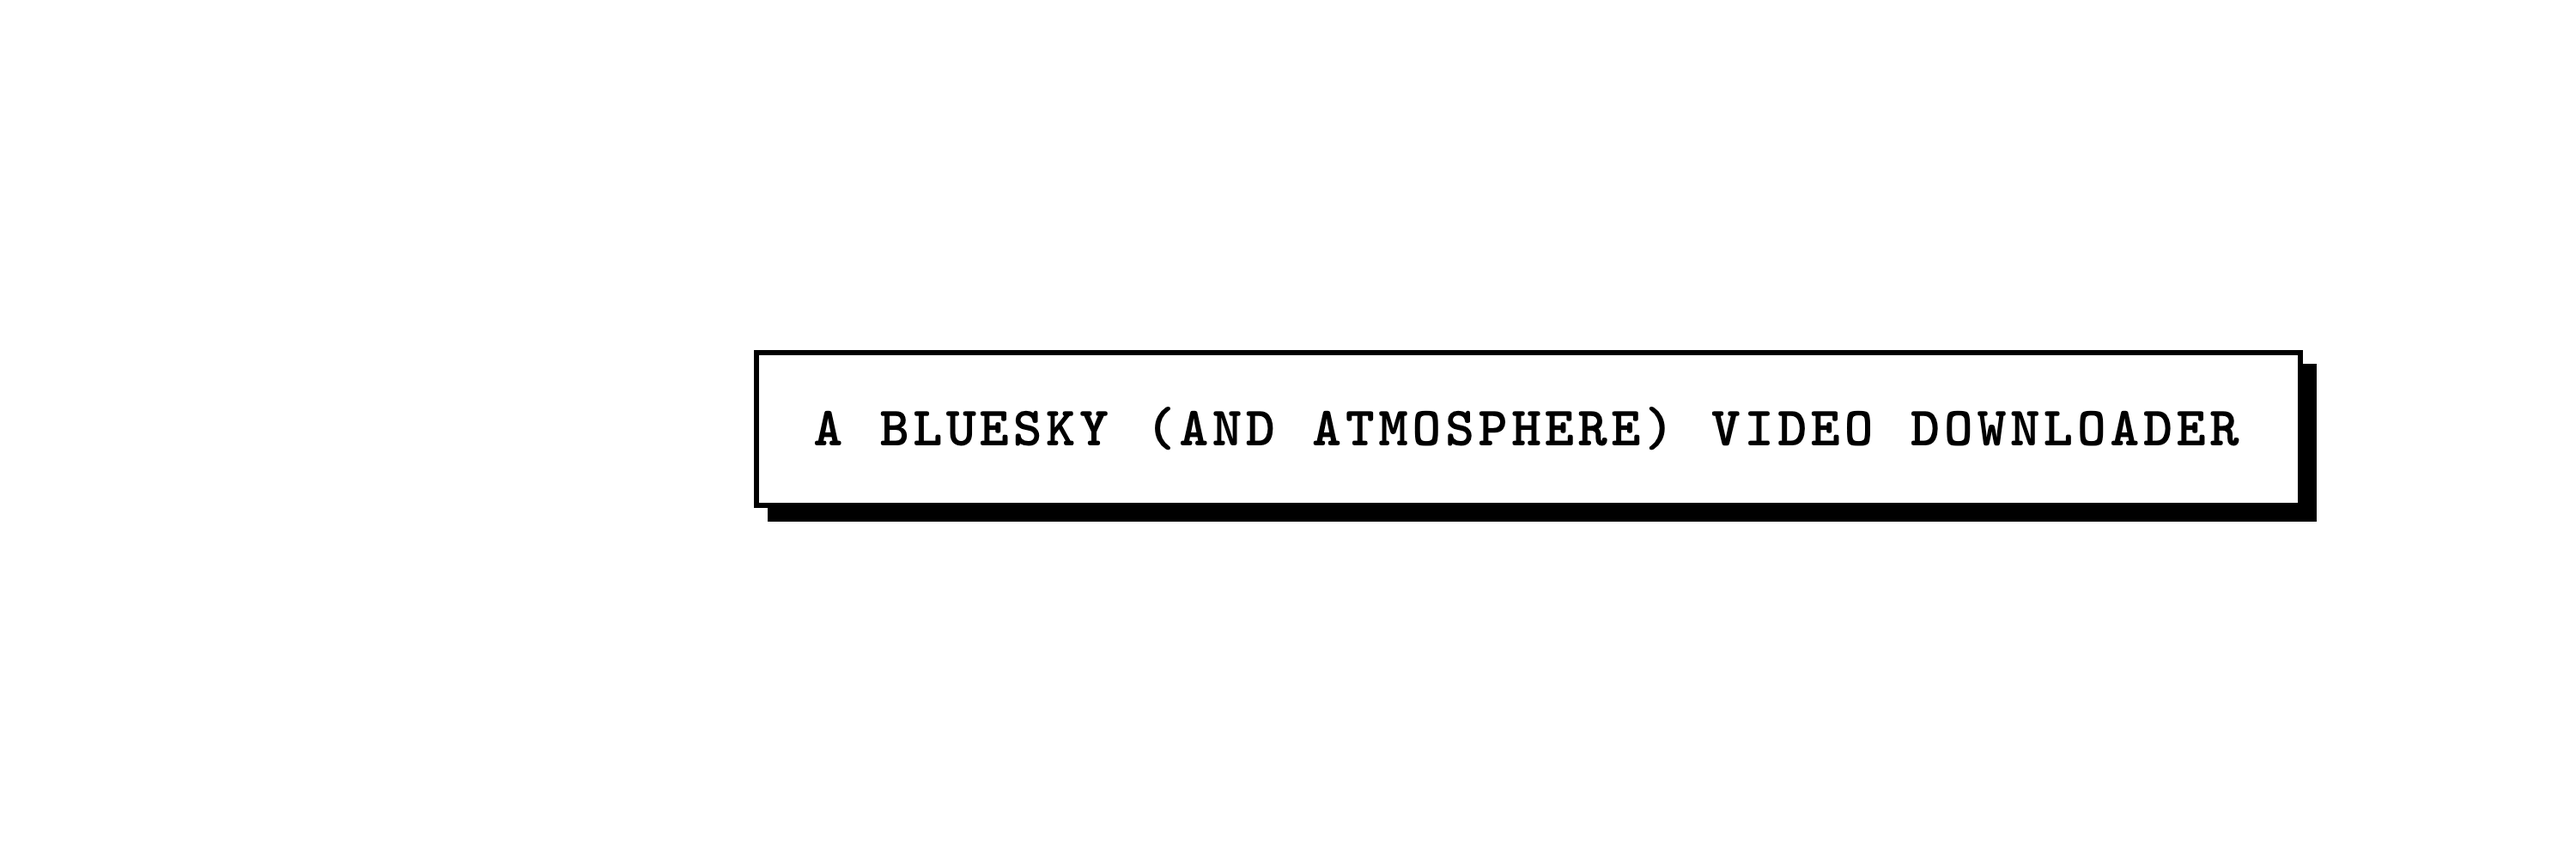
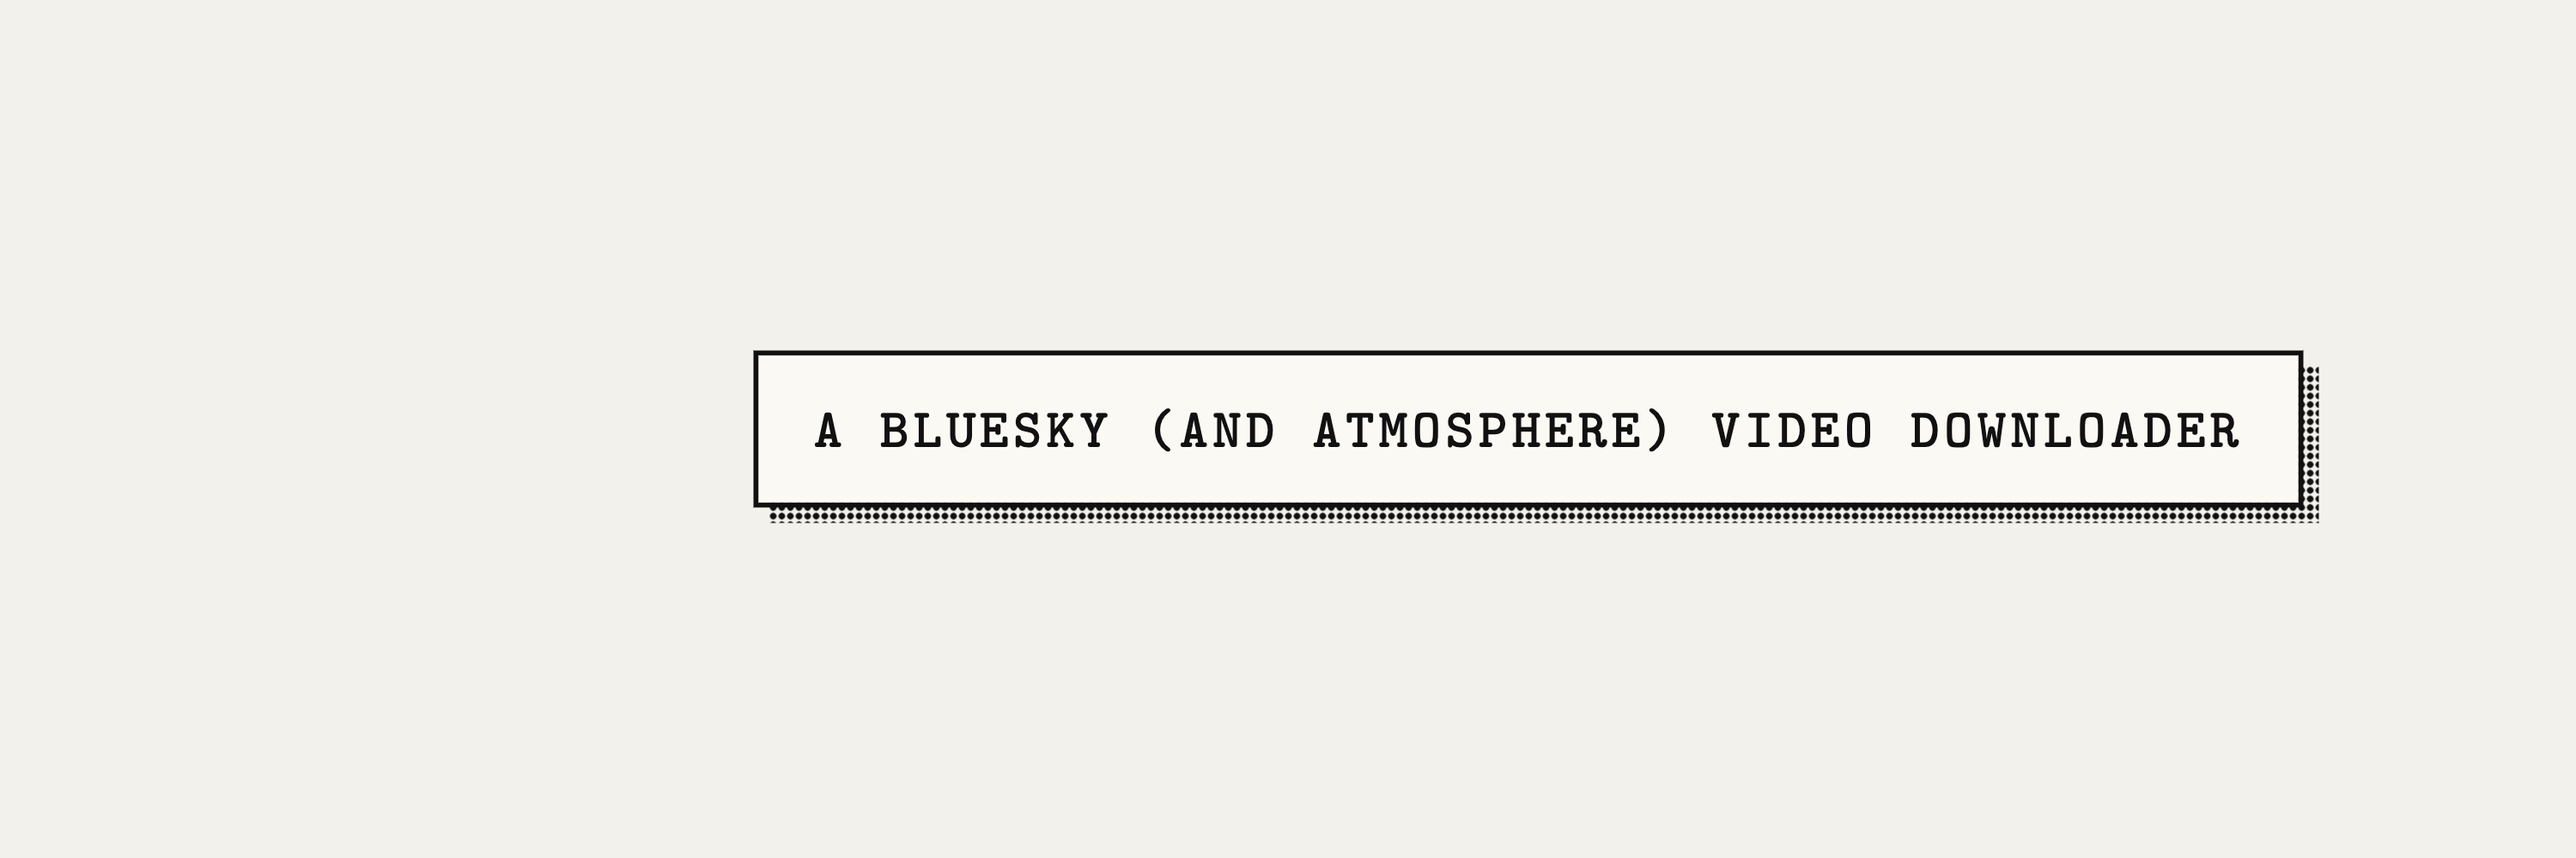
chore: redraw social images in the new style

diff --git a/scripts/og.html b/scripts/og.html
@@ -5,33 +5,36 @@
   <meta charset="UTF-8" />
   <link rel="stylesheet" href="../assets/tailwind-4.3.3.css" />
   <style>
+    /* Design system v2: newsprint paper, CMU Serif 700 wordmark with the ink
+       block tilted +1.5deg, and the tagline on a halftone (dot) shadow. The dot
+       geometry is scaled up for a 1200px card read at thumbnail size. */
     html, body { margin: 0; width: 1200px; height: 630px; overflow: hidden; background: var(--surface-page); }
     .frame {
       box-sizing: border-box; width: 1200px; height: 630px; padding: 56px;
-      display: flex; flex-direction: column; justify-content: center; align-items: center; gap: 40px;
+      display: flex; flex-direction: column; justify-content: center; align-items: center; gap: 44px;
     }
     .wordmark {
       margin: 0;
-      font: var(--weight-normal) 200px/1.1 var(--font-display);
+      font: var(--weight-display) 196px/1.1 var(--font-display);
       letter-spacing: var(--tracking-display);
       color: var(--text-1);
-    }
-    .wordmark-suffix {
-      display: inline-block; line-height: 0.92; padding: 0.06em 0.07em 0.1em;
-      background: var(--project-ink); color: var(--project-ink-contrast);
+      white-space: nowrap;
     }
     .tagline {
+      --dot-pitch: 6px; --dot-radius: 2px; --shadow-offset: 10px;
+      --border-width: 3px; --border: 3px solid var(--border-strong);
       margin: 0; padding: 14px 22px;
-      border: var(--border); background: var(--surface-card); box-shadow: var(--shadow-2);
       font: var(--weight-bold) 28px/1.3 var(--font-mono);
       letter-spacing: var(--tracking-meta); text-transform: uppercase; color: var(--text-1);
     }
+    /* A rendered image, not a screen: keep the round dots at 1x. */
+    .tagline.cast::after { --dot-field: radial-gradient(circle at 50% 50%, var(--shadow-color) var(--dot-radius), transparent calc(var(--dot-radius) + 0.5px)); }
   </style>
 </head>
 <body>
   <div class="frame">
-    <h1 class="wordmark">down<span class="wordmark-suffix">.blue</span></h1>
-    <p class="tagline">A Bluesky (and Atmosphere) video downloader</p>
+    <h1 class="wordmark">down<span class="ink-block tilt-cw">.blue</span></h1>
+    <p class="tagline cast">A Bluesky (and Atmosphere) video downloader</p>
   </div>
 </body>
 </html>

diff --git a/scripts/banner.html b/scripts/banner.html
@@ -13,16 +13,19 @@
       display: flex; flex-direction: column; justify-content: center; align-items: center; gap: 72px;
     }
     .tagline {
+      --dot-pitch: 10px; --dot-radius: 3.5px; --shadow-offset: 18px;
+      --border-width: 6px; --border: 6px solid var(--border-strong);
       margin: 0; padding: 44px 64px;
-      border: 6px solid var(--black); background: var(--surface-card); box-shadow: 16px 16px 0 var(--black);
       font: var(--weight-bold) 64px/1.3 var(--font-mono); white-space: nowrap;
       letter-spacing: var(--tracking-meta); text-transform: uppercase; color: var(--text-1);
     }
+    /* A rendered image, not a screen: keep the round dots at 1x. */
+    .tagline.cast::after { --dot-field: radial-gradient(circle at 50% 50%, var(--shadow-color) var(--dot-radius), transparent calc(var(--dot-radius) + 0.5px)); }
   </style>
 </head>
 <body>
   <div class="frame">
-    <p class="tagline">A Bluesky (and Atmosphere) video downloader</p>
+    <p class="tagline cast">A Bluesky (and Atmosphere) video downloader</p>
   </div>
 </body>
 </html>
